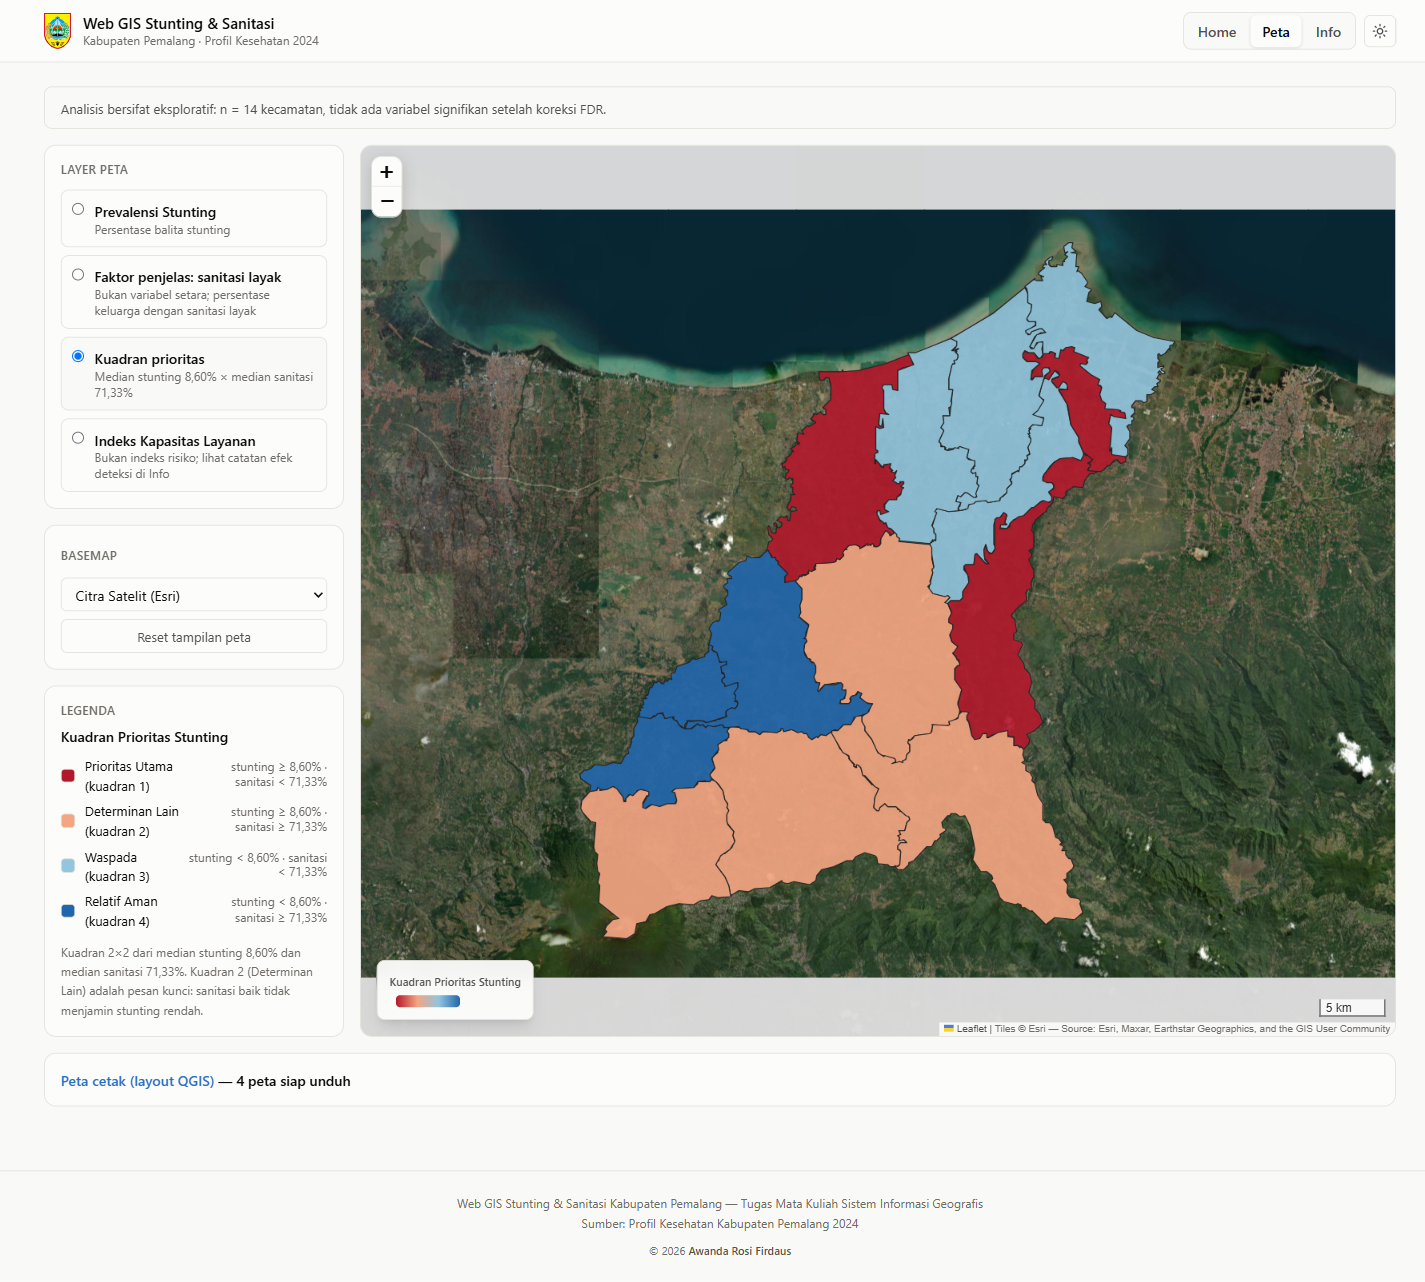
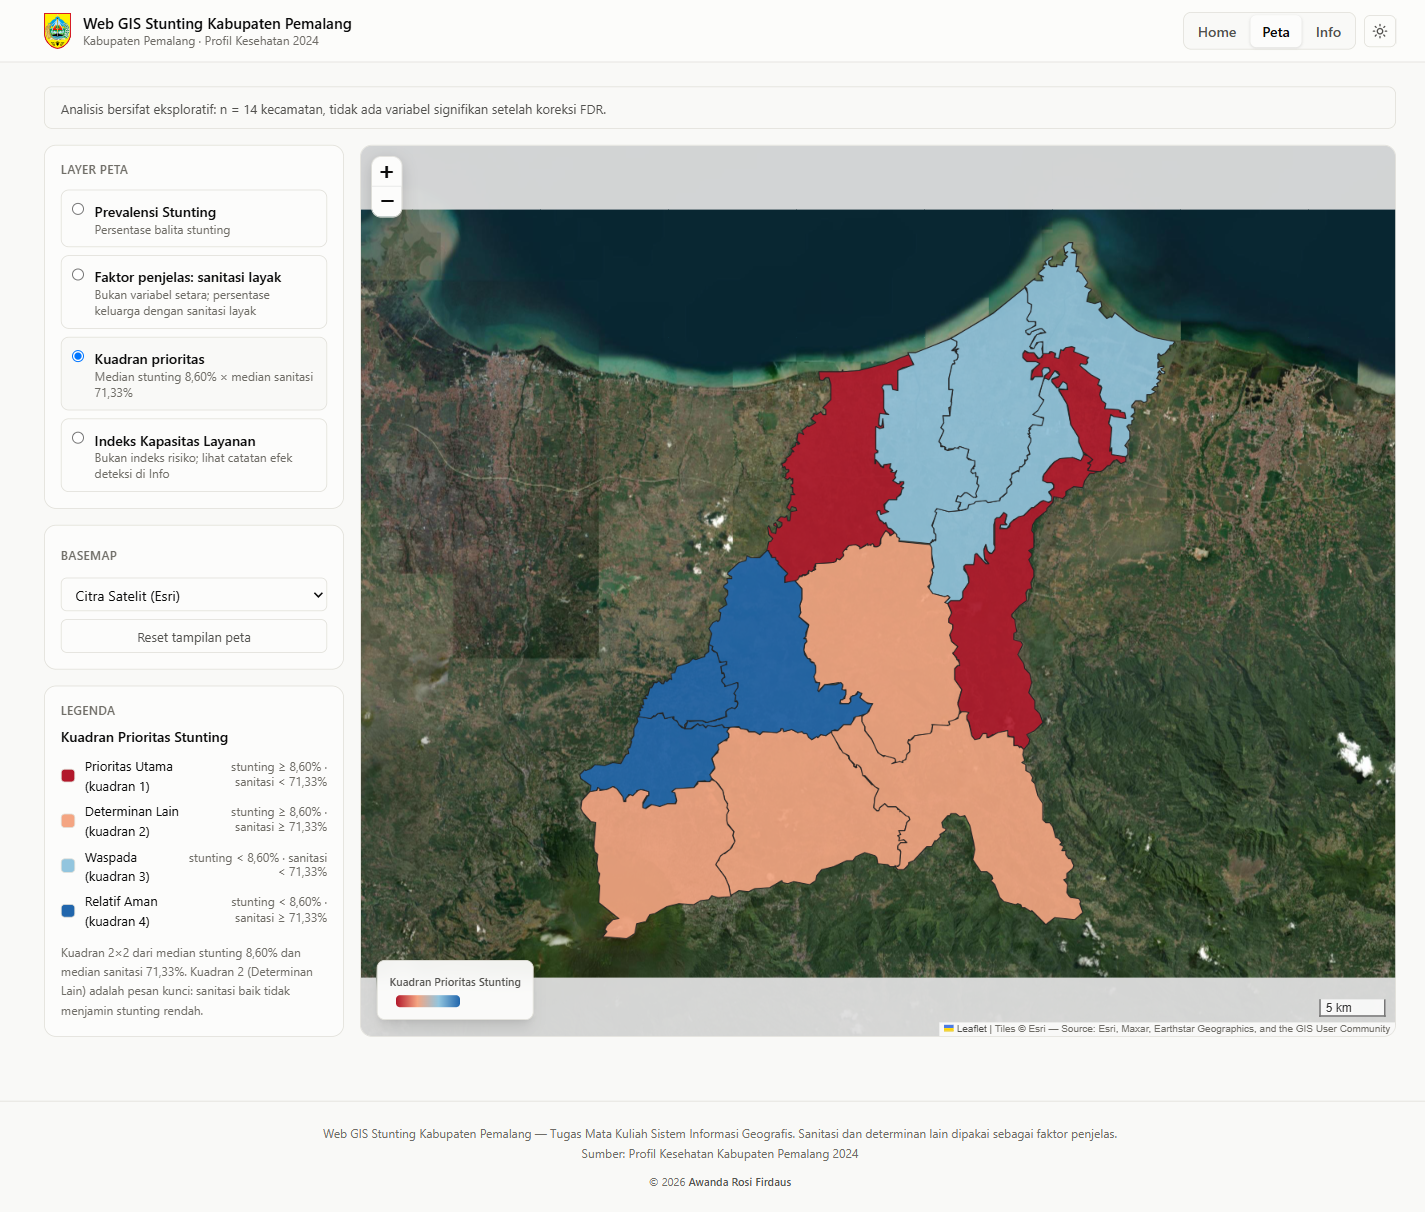
refactor(ui): hapus gambar lampiran QGIS dari Home dan tab Peta
- Home: <figure> peta-stunting-utama dihapus; KPI, grafik, dan tabel tetap
- Peta: <details> galeri 4 layout QGIS dihapus; aria-live dipindah ke panel
- src/ui/galeri-peta.js dihapus beserta gaya .peta-opsi
- PNG di public/peta/ tetap disimpan sebagai lampiran cetak laporan
- README dan tangkapan layar dokumentasi diperbarui

diff --git a/index.html b/index.html
@@ -212,26 +212,8 @@
           </div>
         </div>
 
-        <!-- Peta utama dari ekspor QGIS. Sengaja hanya satu <img> ringkas;
-             galeri lengkap dan pemilih peta ada di tab Peta. -->
-        <figure class="card overflow-hidden p-0">
-          <picture>
-            <source srcset="peta/peta-stunting-utama-1200.webp 1200w" sizes="(max-width:1024px) 100vw, 70vw"
-              type="image/webp" />
-            <img src="peta/peta-stunting-utama.png" srcset="peta/peta-stunting-utama.png 3507w"
-              width="3507" height="2480" sizes="(max-width:1024px) 100vw, 70vw" loading="lazy" decoding="async"
-              class="block h-auto w-full bg-[var(--color-canvas)]"
-              alt="Peta prevalensi stunting 2024 per kecamatan Kabupaten Pemalang, 5 kelas kuantil" />
-          </picture>
-          <figcaption class="flex flex-wrap items-baseline gap-x-3 gap-y-1 p-4 sm:p-5">
-            <p class="text-sm text-[var(--color-ink-2)]">
-              Peta prevalensi stunting dari ekspor QGIS 3.44.16.
-            </p>
-            <a href="#peta"
-              class="text-sm font-medium text-[var(--color-link)] underline-offset-2 hover:underline">Lihat semua
-              peta →</a>
-          </figcaption>
-        </figure>
+        <!-- Peta cetak hasil ekspor QGIS tidak disematkan di halaman; berkas
+              PNG tetap tersedia di public/peta/ untuk kebutuhan cetak. -->
 
         <!-- Satu baris filter, di atas semua yang dicakupinya -->
         <div class="card flex flex-wrap items-center gap-x-5 gap-y-3 p-4" role="group" aria-label="Filter data">
@@ -410,19 +392,18 @@
            ================================================================ -->
     <section id="panel-peta" role="tabpanel" aria-labelledby="tab-peta" data-panel="peta" hidden>
       <!--
-        Dua lapis peta:
-        1. Kanvas Leaflet interaktif (src/map/*): pan, zoom, empat layer
-           (stunting, faktor penjelas sanitasi, kuadran prioritas, indeks
-           kapasitas layanan), basemap, dan klik kecamatan.
-        2. Peta cetak hasil ekspor QGIS (public/peta/*.png) di dalam <details>,
-           jadi legenda dan anotasinya sama persis dengan layout QGIS dan tetap
-           tersedia sebagai gambar 3507 x 2480 px.
+        Peta utama: kanvas Leaflet interaktif (src/map/*) dengan pan, zoom,
+        empat layer (stunting, faktor penjelas sanitasi, kuadran prioritas,
+        indeks kapasitas layanan), basemap, dan klik kecamatan.
+        Peta cetak hasil ekspor QGIS tidak disematkan di halaman; berkasnya
+        tetap ada di public/peta/ untuk kebutuhan cetak.
       -->
       <div class="mx-auto flex w-full max-w-[1400px] flex-col gap-4 px-4 py-6 sm:px-6">
         <p
           class="rounded-lg border border-[var(--color-hairline)] bg-[var(--color-canvas)] px-4 py-2.5 text-[13px] leading-relaxed text-[var(--color-ink-2)]">
           Analisis bersifat eksploratif: n = 14 kecamatan, tidak ada variabel signifikan setelah koreksi FDR.
         </p>
+        <p id="peta-pengumuman" class="sr-only" aria-live="polite"></p>
 
         <div class="grid gap-4 lg:grid-cols-[300px_1fr]">
           <!-- SIDEBAR -->
@@ -556,83 +537,6 @@
           </div>
         </div>
 
-        <!-- Peta cetak: layout QGIS hasil ekspor, disimpan sebagai gambar. -->
-        <details class="card p-0">
-          <summary
-            class="cursor-pointer list-none p-4 text-sm font-semibold marker:hidden [&::-webkit-details-marker]:hidden">
-            <span class="text-[var(--color-link)]">Peta cetak (layout QGIS)</span> — 4 peta siap unduh
-          </summary>
-          <div class="border-t border-[var(--color-hairline)] p-4">
-            <div class="flex flex-wrap items-baseline justify-between gap-x-4 gap-y-1">
-              <h2 class="text-lg font-semibold">Layout QGIS untuk cetak</h2>
-              <p id="peta-aktif-status" class="text-[13px] text-[var(--color-ink-2)]">Peta aktif: Stunting (utama) ·
-                diekspor 25 November 2026</p>
-            </div>
-
-            <div class="mt-3 grid gap-4 lg:grid-cols-[280px_minmax(0,1fr)]">
-                <!-- PEMILIH -->
-                <aside class="card p-4 lg:self-start">
-                  <h3 class="text-xs font-semibold uppercase tracking-wide text-[var(--color-ink-3)]">
-                    Pilih peta
-                  </h3>
-                  <div id="pemilih-peta" class="mt-3 flex flex-col gap-2" role="radiogroup" aria-label="Pilih peta">
-                    <button type="button" role="radio" aria-checked="true" data-peta="stunting" class="peta-opsi">
-                      <span class="block text-sm font-medium">Stunting (utama)</span>
-                      <span class="block text-xs text-[var(--color-ink-3)]">5 kelas kuantil</span>
-                    </button>
-                    <button type="button" role="radio" aria-checked="false" data-peta="prioritas" class="peta-opsi">
-                      <span class="block text-sm font-medium">Kuadran prioritas</span>
-                      <span id="peta-prioritas-jumlah" class="block text-xs text-[var(--color-ink-3)]">4 kategori median split</span>
-                    </button>
-                    <button type="button" role="radio" aria-checked="false" data-peta="sanitasi" class="peta-opsi">
-                      <span class="block text-sm font-medium">Faktor penjelas: sanitasi layak</span>
-                      <span class="block text-xs text-[var(--color-ink-3)]">Cakupan sanitasi 2024</span>
-                    </button>
-                    <button type="button" role="radio" aria-checked="false" data-peta="kapasitas" class="peta-opsi">
-                      <span class="block text-sm font-medium">Kapasitas layanan</span>
-                      <span class="block text-xs text-[var(--color-ink-3)]">Indeks, bukan indeks risiko</span>
-                    </button>
-                  </div>
-                  <p class="mt-3 text-xs leading-relaxed text-[var(--color-ink-3)]">
-                    Legenda dan angka tercetak di dalam gambar. Nilai per kecamatan ada di tabel tab Home.
-                  </p>
-                </aside>
-
-                <!-- GALERI -->
-                <figure class="card overflow-hidden p-0">
-                  <picture>
-                    <source id="peta-sumber" type="image/webp" sizes="(max-width:1024px) 100vw, 70vw"
-                      srcset="peta/peta-stunting-utama-1200.webp 1200w" />
-                    <img id="peta-gambar" width="3507" height="2480" sizes="(max-width:1024px) 100vw, 70vw"
-                      decoding="async" loading="lazy"
-                      src="peta/peta-stunting-utama.png" srcset="peta/peta-stunting-utama.png 3507w"
-                      class="block h-auto w-full bg-[var(--color-canvas)]"
-                      alt="Peta prevalensi stunting 2024 per kecamatan Kabupaten Pemalang, 5 kelas kuantil" />
-                  </picture>
-                  <p id="peta-galat" class="hidden p-5 text-sm text-[var(--color-ink-2)]" role="alert"></p>
-
-                  <figcaption class="flex flex-col gap-2 p-4 sm:p-5">
-                    <h3 id="peta-judul" class="text-[15px] font-semibold">Peta Prevalensi Stunting Kabupaten Pemalang 2024
-                    </h3>
-                    <p id="peta-keterangan" class="text-sm leading-relaxed text-[var(--color-ink-2)]">Prevalensi balita
-                      stunting per kecamatan, 5 kelas kuantil dengan batas 5,29% / 7,40% / 9,13% / 12,18%.</p>
-                    <p id="peta-keterangan-tambahan" class="text-sm leading-relaxed text-[var(--color-ink-2)]" hidden></p>
-                    <p class="mt-1 text-xs leading-relaxed text-[var(--color-ink-3)]">
-                      Diekspor dari QGIS 3.44.16 · Sumber: Profil Kesehatan Kabupaten Pemalang 2024
-                    </p>
-                    <p class="flex flex-wrap items-center gap-x-4 gap-y-1 text-xs">
-                      <a id="peta-penuh" href="peta/peta-stunting-utama.png" target="_blank" rel="noopener"
-                        class="font-medium text-[var(--color-link)] underline-offset-2 hover:underline">Buka ukuran
-                        penuh (PNG)</a>
-                      <span class="text-[var(--color-ink-3)]">3507 × 2480 px · keterangan: gambar statis hasil QGIS</span>
-                    </p>
-                  </figcaption>
-                </figure>
-            </div>
-
-            <p id="peta-pengumuman" class="sr-only" aria-live="polite"></p>
-          </div>
-        </details>
       </div>
     </section>
 

diff --git a/src/styles.css b/src/styles.css
@@ -435,33 +435,6 @@ tbody tr {
   transition: background-color 0.15s ease;
 }
 
-/* Pemilih peta (segmented control). Status aktif memakai aria-checked supaya
-   pembaca layar dan gaya visual membaca sumber yang sama. */
-.peta-opsi {
-  border: 1px solid var(--color-hairline);
-  border-radius: 0.6rem;
-  padding: 0.6rem 0.7rem;
-  text-align: left;
-  transition:
-    background-color 0.15s ease,
-    border-color 0.15s ease;
-}
-
-.peta-opsi:hover {
-  background: var(--color-canvas);
-}
-
-.peta-opsi[aria-checked="true"] {
-  border-color: var(--color-stunting-2);
-  background: var(--color-canvas);
-  box-shadow: inset 0 0 0 1px var(--color-stunting-2);
-}
-
-.peta-opsi:focus-visible {
-  outline: 2px solid var(--color-link);
-  outline-offset: 2px;
-}
-
 @media (prefers-reduced-motion: reduce) {
   *,
   *::before,

diff --git a/src/main.js b/src/main.js
@@ -21,7 +21,6 @@ import {
 } from "./ui/filters.js";
 import { jalankanUnduh } from "./ui/export.js";
 import { initFoto } from "./ui/galeri.js";
-import { initGaleriPeta } from "./ui/galeri-peta.js";
 import { initScrollAnimation } from "./ui/scroll.js";
 import { initInfo } from "./ui/info.js";
 
@@ -124,11 +123,6 @@ async function mulai() {
 
     const semua = rows;
     let rowsTampil = terapkanFilter(semua);
-
-    /* --- peta cetak ---------------------------------------------------------
-       Galeri layout QGIS di dalam <details> tetap dilayani modul terpisah;
-       peta utama di tab ini adalah kanvas Leaflet di bawah. */
-    initGaleriPeta({ rows: semua });
 
     /* --- tabel alternatif untuk kedua grafik ------------------------------ */
     const isiTabel = {

diff --git a/README.md b/README.md
@@ -31,9 +31,10 @@ dependensi tambahan. Perintah yang sama juga menulis
 `public/data/determinan.json` (95 uji determinan, 6 model regresi, 7 baris
 registry anomali), sehingga panel Info tidak memuat angka statistik di HTML.
 
-**Peta interaktif dan lampiran cetak memakai sumber yang sama.** Panel Peta
-dirender Leaflet dari `public/data/kecamatan.geojson`; lampiran cetak dan gambar
-peta Home berasal dari ekspor QGIS. Bila data berubah, perbarui dua hal:
+**Peta interaktif memakai sumber data yang sama dengan seluruh dashboard.**
+Panel Peta dirender Leaflet dari `public/data/kecamatan.geojson`. Berkas PNG
+hasil ekspor QGIS di `public/peta/` **tidak disematkan di halaman** — dipakai
+hanya sebagai lampiran cetak laporan. Bila data berubah, perbarui dua hal:
 `npm run prepare-data` **dan** ekspor ulang layout QGIS (langkah lengkap di
 `public/peta/README.md`).
 
@@ -54,7 +55,8 @@ webgis-stunting-pemalang/
 │  ├─ media/                      6 berkas foto (WebP), total 680 KB
 │  │                              · 2 hero (lebar/sempit), 2 pita, 2 masthead
 │  └─ peta/                       4 layout QGIS cetak (PNG 3507×2480)
-│                                 + varian 1200 px (WebP) untuk layar sempit
+│                                 + varian 1200 px (WebP); lampiran cetak
+│                                 laporan, tidak disematkan di halaman
 ├─ src/
 │  ├─ main.js                    bootstrap + urutan inisialisasi
 │  ├─ styles.css                 @import "tailwindcss" + token @theme static
@@ -79,7 +81,6 @@ webgis-stunting-pemalang/
 │  │  ├─ filters.js              filter kelas kerentanan
 │  │  ├─ table.js                tabel: cari, urut, filter
 │  │  ├─ galeri.js                foto sebagai bagian tata letak + kreditnya
-│  │  ├─ galeri-peta.js           pemilih 4 peta cetak hasil QGIS
 │  │  ├─ info.js                 uji determinan, regresi, registry anomali
 │  │  └─ export.js               unduh GeoJSON + CSV
 │  └─ state/store.js             state tunggal (layer aktif, kecamatan terpilih)
@@ -223,13 +224,10 @@ sama: **prevalensi stunting** (fokus studi), **faktor penjelas sanitasi layak**,
 Klik satu poligon menyorot baris tabel, grafik, dan kartu "Kecamatan terpilih".
 Peta ini memakai 5 kelas Quantile dan ramp warna yang sama dengan QGIS.
 
-Empat layout **ekspor QGIS** (`public/peta/*.png`) tetap disediakan sebagai
-lampiran cetak dan gambar peta di Home. Semuanya diekspor dari proyek QGIS
-3.44.16 (`../output/Pemalang_Stunting_Sanitasi_2024.qgz`) berukuran
-3507 × 2480 px: stunting (utama), kuadran prioritas, faktor penjelas sanitasi,
-dan indeks kapasitas layanan. Legenda, anotasi, dan skalanya sama persis dengan
-layout laporan. Lampiran ini **tidak dibuat oleh browser** dan tidak
-menggantikan peta interaktif.
+Gambar ekspor QGIS (`public/peta/*.png`, 3507 × 2480 px) **tidak disematkan di
+halaman** — tidak ada gambar peta di Home maupun galeri lampiran di tab Peta.
+Berkasnya tetap disimpan di repo sebagai lampiran cetak laporan, dengan
+metadata ekspor di `public/peta/README.md`.
 
 Warna poligon peta Leaflet mengikuti ramp proyek QGIS, sehingga kelas warnanya
 sama dengan peta cetak; bedanya hanya ada di grafik, dan itu dijelaskan di
